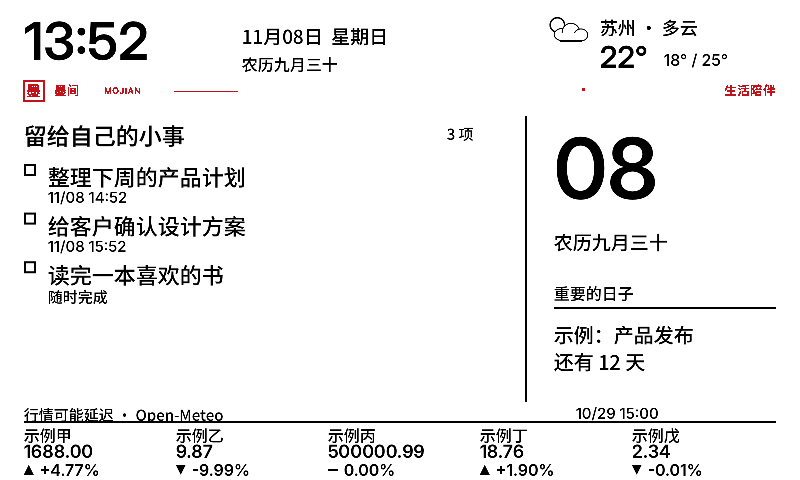
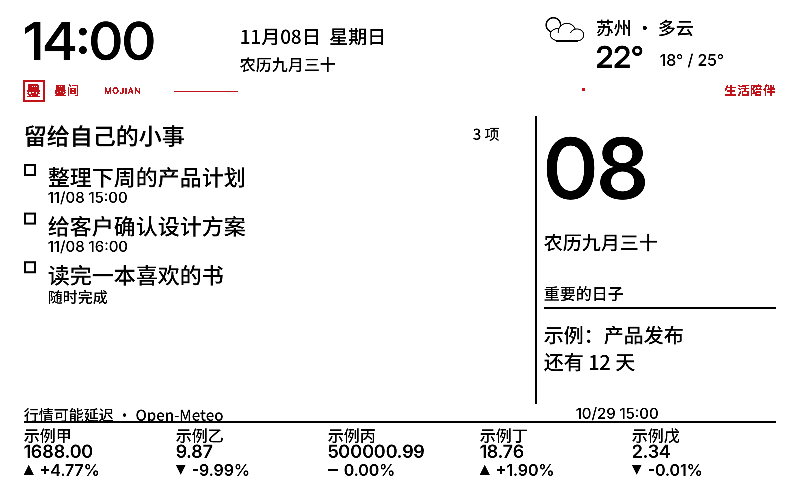
feat(ui): align right column and calendar to 8px grid
Phase 2 layout grid:
- left column 504, divider 536, right column 544/232
- header date 240 and weather 544
- calendar right grid 328..776 in 7x64 columns
- refresh regions and autonomy weather rect regenerated
- six-row calendar and card-bound assertions updated

Mac tests, Android assembleDebug and default firmware build pass.
Not written to the device; applying the layout needs one explicit full
refresh.

diff --git a/macos/Sources/ScreenRenderer.swift b/macos/Sources/ScreenRenderer.swift
@@ -97,9 +97,9 @@ private struct Painter {
     }
     func header(){
         text(dateText(c.now,"HH:mm"),24,10,52,200,64,true)
-        text(dateText(c.now,"MM月dd日  EEEE"),242,22,19,284)
-        text(lunarText(c.now),242,52,16,284)
-        weatherLine(548,14,228)
+        text(dateText(c.now,"MM月dd日  EEEE"),240,22,19,288)
+        text(lunarText(c.now),240,52,16,288)
+        weatherLine(544,14,232)
     }
     func stockArrow(_ percent:Double,_ x:CGFloat,_ y:CGFloat){
         NSColor.black.setFill()
@@ -199,18 +199,18 @@ private struct Painter {
         header();let layout=c.settings.layout
         switch layout {
         case .focus:
-            todos(24,118,500,284);rule(548,116,286,true)
-            informationCards(572,204)
+            todos(24,118,504,284);rule(536,116,288,true)
+            informationCards(544,232)
         case .agenda:
-            todos(24,118,500,284,"今日安排",true,5);rule(548,116,286,true)
-            informationCards(572,204)
+            todos(24,118,504,284,"今日安排",true,5);rule(536,116,288,true)
+            informationCards(544,232)
         case .minimal:
             text("今天，只做重要的事。",24,116,15,752)
             for (i,t) in active.prefix(3).enumerated(){let y:CGFloat=160+CGFloat(i)*76;outline(28,y+9,14,14);text((t.pinned == true ? "★ ":"")+t.title,62,y,28,710,40,true);text(dueText(t),62,y+42,15,710)}
             if active.isEmpty{text("今天的留白，也很珍贵。",24,194,34,752,90,true)}
         case .overview:
-            todos(24,118,478,284);rule(526,116,286,true)
-            informationCards(550,226)
+            todos(24,118,504,284);rule(536,116,288,true)
+            informationCards(544,232)
         case .pomodoro:
             todos(24,118,430,284,"专心做事",false,5);rule(478,116,286,true)
             text("专注时刻",510,120,18,266)
@@ -219,9 +219,9 @@ private struct Painter {
             text(c.focusEnd == nil ? "在 Mac 开始一段专注":"专注进行中",510,302,17,260)
             text(active.first?.title ?? "为自己留一段不被打扰的时间",510,348,18,260,54)
         case .living:
-            todos(24,118,478,284,"留给自己的小事",false,5);rule(526,116,286,true)
-            text(dateText(c.now,"dd"),554,118,84,210,110,true);text(lunarText(c.now),554,228,19,220)
-            note(554,281,222,122,"重要的日子",InformationLogic.nearest(c.settings.info.dates,at:c.now).map{InformationLogic.countdown($0,at:c.now)} ?? c.settings.note)
+            todos(24,118,504,284,"留给自己的小事",false,5);rule(536,116,288,true)
+            text(dateText(c.now,"dd"),544,118,84,232,110,true);text(lunarText(c.now),544,228,19,232)
+            note(544,281,232,122,"重要的日子",InformationLogic.nearest(c.settings.info.dates,at:c.now).map{InformationLogic.countdown($0,at:c.now)} ?? c.settings.note)
         case .custom:
             let width=(752*c.settings.customRatio/8).rounded(.down)*8
             todos(24,118,width-24,338,"我的待办",false,7);rule(24+width,116,340,true)
@@ -246,14 +246,14 @@ private struct Painter {
         weatherLine(24,405,280)
         rule(316,118,344,true)
         let illustrated=c.settings.info.artwork == true
-        if illustrated{landscape(346,118,430,115);text(["冬山藏雪","春山初醒","夏山听雨","秋山有信"][(WorkSchedule.calendar.component(.month,from:c.now)%12)/3]+" · 内置插画",346,240,16,430,24)}else{text("月历",346,116,16,430,40,true)}
+        if illustrated{landscape(328,118,448,115);text(["冬山藏雪","春山初醒","夏山听雨","秋山有信"][(WorkSchedule.calendar.component(.month,from:c.now)%12)/3]+" · 内置插画",328,240,16,448,24)}else{text("月历",328,116,16,448,40,true)}
         var cal=Calendar(identifier:.gregorian);cal.timeZone=TimeZone(identifier:"Asia/Shanghai")!;let components=cal.dateComponents([.year,.month],from:c.now);let first=cal.date(from:components)!;let offset=(cal.component(.weekday,from:first)+5)%7;let days=cal.range(of:.day,in:.month,for:first)!
-        for (i,day) in ["一","二","三","四","五","六","日"].enumerated(){text(day,346+CGFloat(i)*62,illustrated ? 264:163,16,58)}
-        for day in days {let position=offset+day-1;let x=346+CGFloat(position%7)*62;let y=(illustrated ? 290:202)+CGFloat(position/7)*(illustrated ? 22:35)
+        for (i,day) in ["一","二","三","四","五","六","日"].enumerated(){text(day,328+CGFloat(i)*64,illustrated ? 264:163,16,60)}
+        for day in days {let position=offset+day-1;let x=328+CGFloat(position%7)*64;let y=(illustrated ? 290:202)+CGFloat(position/7)*(illustrated ? 22:35)
             if day==cal.component(.day,from:c.now){outline(x-6,y-2,43,illustrated ? 22:31)}
             text("\(day)",x,y,20,50,23,day==cal.component(.day,from:c.now))
             if let date=cal.date(byAdding:.day,value:day-1,to:first),let marker=CalendarData.marker(date){text(marker,x+30,y+2,14,20,20)}
         }
-        rule(346,425,430);text(InformationLogic.nearest(c.settings.info.dates,at:c.now).map{InformationLogic.countdown($0,at:c.now).replacingOccurrences(of:"\n",with:" · ")} ?? CalendarData.nextTerm(c.now) ?? c.settings.note,346,441,17,430,34)
+        rule(328,425,448);text(InformationLogic.nearest(c.settings.info.dates,at:c.now).map{InformationLogic.countdown($0,at:c.now).replacingOccurrences(of:"\n",with:" · ")} ?? CalendarData.nextTerm(c.now) ?? c.settings.note,328,441,17,448,34)
     }
 }

diff --git a/macos/Sources/ReadabilityTest.swift b/macos/Sources/ReadabilityTest.swift
@@ -57,12 +57,12 @@ import AppKit
         let longNote=try! ScreenRenderer.blackFrame(ScreenContent(tasks:[],settings:notes,weather:weather,quotes:quotes,now:now))
         notes.note=""
         let blankNote=try! ScreenRenderer.blackFrame(ScreenContent(tasks:[],settings:notes,weather:weather,quotes:quotes,now:now))
-        precondition(ink(longNote,550,215,226,35)>20,"Third body line visible")
-        for y in 0..<480{for x in 0..<800 where !(x>=550 && x<776 && ((y>=161 && y<256)||(y>=307 && y<402))){let bit=UInt8(128>>(x%8));precondition(longNote[y*100+x/8]&bit==blankNote[y*100+x/8]&bit,"Paragraph stays inside body")}}
+        precondition(ink(longNote,544,215,232,35)>20,"Third body line visible")
+        for y in 0..<480{for x in 0..<800 where !(x>=544 && x<776 && ((y>=161 && y<256)||(y>=307 && y<402))){let bit=UInt8(128>>(x%8));precondition(longNote[y*100+x/8]&bit==blankNote[y*100+x/8]&bit,"Paragraph stays inside body")}}
         try! saveFrame(longNote,to:directory.appendingPathComponent("long-cards.png"))
         let sixRows=ScreenContent(tasks:[],settings:settings,weather:weather,quotes:[],now:ISO8601DateFormatter().date(from:"2026-11-30T09:30:00+08:00")!,afterHours:true)
         let calendarSix=try! ScreenRenderer.blackFrame(sixRows)
-        precondition(ink(calendarSix,346,400,430,23)>40 && ink(calendarSix,346,423,430,1)==0,"Six calendar rows clear footer")
+        precondition(ink(calendarSix,328,400,448,23)>40 && ink(calendarSix,328,423,448,1)==0,"Six calendar rows clear footer")
         try! saveFrame(calendarSix,to:directory.appendingPathComponent("calendar-six-rows.png"))
         print("PASS: all layouts, five stock names/prices/signed movements, vector arrow direction, narrow-name isolation, paragraph bounds, six-week calendar, red reserve; 1-bit threshold previews exported")
     }

diff --git a/android/app/src/main/java/com/desktodo/app/DeskRenderer.java b/android/app/src/main/java/com/desktodo/app/DeskRenderer.java
@@ -21,7 +21,7 @@ final class DeskRenderer {
  String agendaDate(JSONObject t){try{Instant d=Instant.parse(t.getString("due"));LocalDate day=d.atZone(ScreenData.ZONE).toLocalDate();LocalDate today=now.atZone(ScreenData.ZONE).toLocalDate();if(day.equals(today))return "";if(day.equals(today.plusDays(1)))return "明天";return day.getMonthValue()+"月"+day.getDayOfMonth()+"日";}catch(Exception e){return "";}}
  void tasks(String id)throws Exception{
   String kind=DeskModel.kind(id);if(kind.equals("calendar"))return;
-  float width=kind.equals("focus")||kind.equals("agenda")?500:kind.equals("pomodoro")?430:478,height=284;
+  float width=kind.equals("focus")||kind.equals("agenda")?504:kind.equals("pomodoro")?430:504,height=284;
   if(kind.equals("custom")){String[] pieces=id.split("\\.");width=(float)Math.floor(752*Integer.parseInt(pieces[3])/100.0/8)*8-24;height=338;}
   int save=c.save();c.clipRect(24,kind.equals("minimal")?150:118,kind.equals("minimal")?776:24+width,kind.equals("custom")?456:404);clear(24,kind.equals("minimal")?150:118,kind.equals("minimal")?752:width,kind.equals("minimal")?254:height);
   if(kind.equals("minimal")){for(int i=0;i<Math.min(3,tasks.length());i++){JSONObject t=tasks.getJSONObject(i);int y=160+i*76;check(28,y+9,14);text(t.getString("title"),62,y,28,710,true);text(DeskModel.due(t),62,y+42,15,710);}if(tasks.length()==0)text("今天的留白，也很珍贵。",24,194,34,752,true);c.restoreToCount(save);return;}
@@ -36,7 +36,7 @@ final class DeskRenderer {
  void weather(float x,float y,float width)throws Exception{if(weather==null)return;clear(x,y,width,66);JSONObject cur=weather.getJSONObject("current");text(weather.optString("city",cfg.optString("city"))+" · "+DeskApi.weatherText(cur.optInt("weather_code")),x,y,18,width);text(Math.round(cur.getDouble("temperature_2m"))+"°",x,y+25,30,width,true);}
  void stockArrow(double percent,float x,float y){p.setColor(Color.BLACK);p.setStyle(Paint.Style.FILL);if(percent==0){c.drawRect(x,y+4,x+10,y+6,p);return;}Path arrow=new Path();arrow.moveTo(x,y+(percent>0?10:0));arrow.lineTo(x+5,y+(percent>0?0:10));arrow.lineTo(x+10,y+(percent>0?10:0));arrow.close();c.drawPath(arrow,p);}
  void stocks()throws Exception{if(quotes.length()==0&&!cfg.optBoolean("stockConfigured"))return;clear(24,404,752,76);text("行情可能延迟 · Open-Meteo",24,404,15,600);text("手机同步",648,404,15,128);rule(24,422,752,false);if(quotes.length()==0){text("行情待更新 · 稍后自动刷新",24,441,18,752);return;}for(int i=0;i<5;i++){int x=24+i*152;if(i<quotes.length()){JSONObject q=quotes.getJSONObject(i);double percent=q.getDouble("percent");text(q.getString("name"),x,423,16,145);text(String.format(Locale.US,"%.2f",q.getDouble("price")),x,441,18,145,true);stockArrow(percent,x,465);text(percent==0?"0.00%":String.format(Locale.US,"%+.2f%%",percent),x+16,460,16,129,true);}else{text("未配置",x,423,16,145);text("—",x,444,18,145);}}}
- void infoPatch(String id)throws Exception{String k=DeskModel.kind(id);if(k.equals("calendar")){if(id.endsWith(".phone"))weather(548,14,228);else weather(24,405,280);return;}clock();weather(548,14,228);if(!k.equals("custom"))stocks();}
+ void infoPatch(String id)throws Exception{String k=DeskModel.kind(id);if(k.equals("calendar")){if(id.endsWith(".phone"))weather(544,14,232);else weather(24,405,280);return;}clock();weather(544,14,232);if(!k.equals("custom"))stocks();}
  void lines(String body,float x,float y,float size,float width,int limit){
   if(width<1||limit<1)return;
   TextPaint paint=new TextPaint(Paint.ANTI_ALIAS_FLAG);paint.setColor(Color.BLACK);paint.setTypeface(ScreenFonts.face(body));paint.setTextSize(size);paint.setSubpixelText(false);
@@ -51,14 +51,14 @@ final class DeskRenderer {
  void cards(float x,float width)throws Exception{for(int slot=0;slot<2;slot++){float y=slot==0?120:266;int saved=c.save();c.clipRect(x,y,x+width,y+136);clear(x,y,width,136);String key=cfg.optString(slot==0?"card1":"card2",slot==0?"week":"outdoor");text(ScreenData.label(key),x,y,16,width);rule(x,y+27,width,false);int count=cfg.optInt("_weekCount",0),goal=Math.max(1,cfg.optInt("weeklyGoal",20));switch(key){case "plant":plant(x+width-82,y+37,ScreenData.plantStage(count,goal));text(count+" / "+goal,x,y+45,25,width-86,true);text(cfg.optBoolean("sharedStats")?"共享本周":"本机本周",x,y+83,16,width-86);break;case "week":text("已完成 "+count+" 项",x,y+42,23,width,true);text((cfg.optBoolean("sharedStats")?"共享本周":"本机本周")+" · 目标 "+goal+" 项",x,y+78,16,width);p.setColor(Color.BLACK);p.setStyle(Paint.Style.STROKE);p.setStrokeWidth(2);c.drawRect(x,y+109,x+width,y+119,p);p.setStyle(Paint.Style.FILL);c.drawRect(x,y+109,x+width*Math.min(1f,(float)count/goal),y+119,p);break;case "countdown":lines(ScreenData.countdown(cfg,now),x,y+41,20,width,3);break;case "outdoor":lines(ScreenData.outdoor(weather,now),x,y+41,17,width,3);break;case "plugin":lines(CommunityPanel.pluginText(cfg.optJSONObject("plugin")==null?new JSONObject():cfg.optJSONObject("plugin"),now.atZone(ScreenData.ZONE).toLocalDate()),x,y+41,18,width,3);break;case "nextEvent":lines(DeskExtras.eventText(cfg,now),x,y+41,18,width,3);break;case "commute":lines(DeskExtras.commuteText(cfg,now),x,y+41,18,width,3);break;case "habits":lines(DeskExtras.habitText(cfg,now),x,y+41,18,width,3);break;case "inspiration":lines(new String[]{"今天，先做好一件事。","给重要的事留出时间。","慢一点，也在往前。","专注当下的一小步。","让桌面和心情都留白。","完成比完美更有力量。","休息也是今天的安排。"}[now.atZone(ScreenData.ZONE).getDayOfYear()%7],x,y+41,20,width,3);break;case "status":text(cfg.optString("deskStatus","专注中"),x,y+42,27,width,true);text(cfg.optString("statusNote","请稍后联系"),x,y+87,16,width);break;default:lines(cfg.optString("note"),x,y+41,20,width,3);}c.restoreToCount(saved);}}
  void plant(float x,float y,int stage){p.setColor(Color.BLACK);p.setStyle(Paint.Style.STROKE);p.setStrokeWidth(2);Path pot=new Path();pot.moveTo(x+14,y+61);pot.lineTo(x+59,y+61);pot.lineTo(x+53,y+84);pot.lineTo(x+20,y+84);pot.close();c.drawPath(pot,p);if(stage==0){c.drawOval(x+31,y+52,x+41,y+58,p);}else{c.drawLine(x+36,y+61,x+36,y+42-stage*6,p);for(int i=0;i<stage;i++){float at=y+47-i*8;Path leaf=new Path();leaf.moveTo(x+36,at);boolean left=i%2==0;leaf.quadTo(x+(left?9:63),at-23,x+(left?13:60),at-7);leaf.quadTo(x+(left?20:53),at+1,x+36,at);c.drawPath(leaf,p);}}p.setStyle(Paint.Style.FILL);p.setStrokeWidth(1);}
  void focusPanel(){int saved=c.save();c.clipRect(510,116,776,340);clear(510,116,266,224);text("专注时刻",510,120,18,266);long remaining=ScreenData.focusRemaining(cfg,now.toEpochMilli());long minutes=(remaining+59999)/60000;if(cfg.optLong("focusEnd",0)==0&&cfg.optLong("focusPaused",0)==0)minutes=cfg.optInt("focusMinutes",25);text(String.valueOf(minutes),510,171,96,230,true);text("分钟",680,242,18,90);text(ScreenData.focusState(cfg,now.toEpochMilli()),510,302,17,260);c.restoreToCount(saved);}
- void cardsPatch(String id)throws Exception{clear(242,0,284,80);text(DateTimeFormatter.ofPattern("MM月dd日 EEEE",Locale.CHINA).withZone(ScreenData.ZONE).format(now),242,22,19,284);text(ScreenData.lunar(now),242,52,16,284);switch(DeskModel.kind(id)){case "focus":case "agenda":cards(572,204);break;case "overview":cards(550,226);break;case "pomodoro":focusPanel();break;case "living":clear(554,118,222,284);text(DateTimeFormatter.ofPattern("dd").withZone(ScreenData.ZONE).format(now),554,118,84,210,true);text(ScreenData.lunar(now),554,228,16,222);lines(ScreenData.countdown(cfg,now),554,293,19,222,3);break;case "calendar":calendarBody();break;}}
+ void cardsPatch(String id)throws Exception{clear(240,0,288,80);text(DateTimeFormatter.ofPattern("MM月dd日 EEEE",Locale.CHINA).withZone(ScreenData.ZONE).format(now),240,22,19,288);text(ScreenData.lunar(now),240,52,16,288);switch(DeskModel.kind(id)){case "focus":case "agenda":cards(544,232);break;case "overview":cards(544,232);break;case "pomodoro":focusPanel();break;case "living":clear(544,118,232,284);text(DateTimeFormatter.ofPattern("dd").withZone(ScreenData.ZONE).format(now),544,118,84,232,true);text(ScreenData.lunar(now),544,228,16,232);lines(ScreenData.countdown(cfg,now),544,293,19,232,3);break;case "calendar":calendarBody();break;}}
  void landscape(float x,float y,float width,float height){int saved=c.save();c.clipRect(x,y,x+width,y+height);p.setColor(Color.BLACK);p.setStyle(Paint.Style.STROKE);p.setStrokeWidth(1.3f);c.drawCircle(x+width*.79f,y+height*.24f,14,p);for(int layer=0;layer<3;layer++){Path ridge=new Path();ridge.moveTo(x,y+height);for(int i=0;i<=8;i++){float xx=x+i*width/8,yy=y+height*(.42f+layer*.18f)+(float)Math.sin(i*1.7+layer+now.atZone(ScreenData.ZONE).getMonthValue()*.3)*height*.17f;ridge.lineTo(xx,yy);}ridge.lineTo(x+width,y+height);c.drawPath(ridge,p);}p.setStyle(Paint.Style.FILL);c.restoreToCount(saved);}
- void calendarBody(){clear(24,116,752,364);LocalDate date=now.atZone(ScreenData.ZONE).toLocalDate();text(date.format(DateTimeFormatter.ofPattern("yyyy年 M月")),24,120,21,278);text(date.format(DateTimeFormatter.ofPattern("dd")),18,159,110,284,true);text(ScreenData.lunar(now),24,296,21,278);text(date.format(DateTimeFormatter.ofPattern("EEEE",Locale.CHINA)),24,333,20,278);text(ScreenData.term(now),24,374,15,278);lines("把时间，还给生活。",24,421,18,278,2);rule(316,118,344,true);landscape(346,118,430,121);text(new String[]{"冬山藏雪","春山初醒","夏山听雨","秋山有信"}[(date.getMonthValue()%12)/3]+" · 内置插画",346,240,16,430);String[] labels={"一","二","三","四","五","六","日"};for(int i=0;i<7;i++)text(labels[i],346+i*62,264,16,58);int offset=date.withDayOfMonth(1).getDayOfWeek().getValue()-1;for(int day=1;day<=date.lengthOfMonth();day++){int at=offset+day-1;float x=346+at%7*62,y=290+at/7*22;if(day==date.getDayOfMonth()){p.setStyle(Paint.Style.STROKE);p.setStrokeWidth(2);p.setColor(Color.BLACK);c.drawRect(x-4,y-1,x+34,y+21,p);p.setStyle(Paint.Style.FILL);}text(String.valueOf(day),x,y,18,50,day==date.getDayOfMonth());}rule(346,427,430,false);lines(ScreenData.countdown(cfg,now).replace("\n"," · "),346,440,17,430,1);}
- void full(String id)throws Exception{String kind=DeskModel.kind(id);Bitmap old=image.copy(Bitmap.Config.ARGB_8888,false);clear(0,0,800,480);clock();text(DateTimeFormatter.ofPattern("MM月dd日 EEEE",Locale.CHINA).withZone(ZoneId.of("Asia/Shanghai")).format(now),242,22,19,284);text("手机直连 · 墨间",242,52,16,284);if(weather!=null)weather(548,14,228);else if(hadBase)c.drawBitmap(old,new Rect(548,0,776,80),new Rect(548,0,776,80),null);else text(cfg.optString("city","苏州")+" · 天气待更新",548,18,17,228);
+ void calendarBody(){clear(24,116,752,364);LocalDate date=now.atZone(ScreenData.ZONE).toLocalDate();text(date.format(DateTimeFormatter.ofPattern("yyyy年 M月")),24,120,21,278);text(date.format(DateTimeFormatter.ofPattern("dd")),18,159,110,284,true);text(ScreenData.lunar(now),24,296,21,278);text(date.format(DateTimeFormatter.ofPattern("EEEE",Locale.CHINA)),24,333,20,278);text(ScreenData.term(now),24,374,15,278);lines("把时间，还给生活。",24,421,18,278,2);rule(316,118,344,true);landscape(328,118,448,121);text(new String[]{"冬山藏雪","春山初醒","夏山听雨","秋山有信"}[(date.getMonthValue()%12)/3]+" · 内置插画",328,240,16,448);String[] labels={"一","二","三","四","五","六","日"};for(int i=0;i<7;i++)text(labels[i],328+i*64,264,16,60);int offset=date.withDayOfMonth(1).getDayOfWeek().getValue()-1;for(int day=1;day<=date.lengthOfMonth();day++){int at=offset+day-1;float x=328+at%7*64,y=290+at/7*22;if(day==date.getDayOfMonth()){p.setStyle(Paint.Style.STROKE);p.setStrokeWidth(2);p.setColor(Color.BLACK);c.drawRect(x-4,y-1,x+34,y+21,p);p.setStyle(Paint.Style.FILL);}text(String.valueOf(day),x,y,18,50,day==date.getDayOfMonth());}rule(328,427,448,false);lines(ScreenData.countdown(cfg,now).replace("\n"," · "),328,440,17,448,1);}
+ void full(String id)throws Exception{String kind=DeskModel.kind(id);Bitmap old=image.copy(Bitmap.Config.ARGB_8888,false);clear(0,0,800,480);clock();text(DateTimeFormatter.ofPattern("MM月dd日 EEEE",Locale.CHINA).withZone(ZoneId.of("Asia/Shanghai")).format(now),240,22,19,288);text("手机直连 · 墨间",240,52,16,288);if(weather!=null)weather(544,14,232);else if(hadBase)c.drawBitmap(old,new Rect(544,0,776,80),new Rect(544,0,776,80),null);else text(cfg.optString("city","苏州")+" · 天气待更新",544,18,17,232);
   if(kind.equals("minimal"))text("今天，只做重要的事。",24,116,15,752);
-  else if(kind.equals("focus")||kind.equals("agenda")){rule(548,116,286,true);cards(572,204);}
-  else if(kind.equals("overview")){rule(526,116,286,true);cards(550,226);}
-  else if(kind.equals("living")){rule(526,116,286,true);text(DateTimeFormatter.ofPattern("dd").format(LocalDate.now()),554,118,84,210,true);text(cfg.optString("note"),554,281,19,222);}
+  else if(kind.equals("focus")||kind.equals("agenda")){rule(536,116,288,true);cards(544,232);}
+  else if(kind.equals("overview")){rule(536,116,288,true);cards(544,232);}
+  else if(kind.equals("living")){rule(536,116,288,true);text(DateTimeFormatter.ofPattern("dd").format(LocalDate.now()),544,118,84,232,true);text(cfg.optString("note"),544,281,19,232);}
   else if(kind.equals("pomodoro")){rule(478,116,286,true);focusPanel();}
   else if(kind.equals("custom")){float w=(float)Math.floor(752*cfg.optInt("ratio",67)/100.0/8)*8;rule(24+w,116,340,true);float x=48+w,remaining=728-w;text("出门天气",x,118,16,remaining);if(weather!=null)weather(x,148,remaining);text("自选行情",x,232,16,remaining);for(int i=0;i<quotes.length();i++)compactStock(quotes.getJSONObject(i),x,260+i*22,remaining);text(cfg.optString("note"),x,374,16,remaining);}
   if(cfg.optInt("cardsVersion",0)==1)cardsPatch(id);else if(kind.equals("calendar"))calendarBody();tasks(id);if(!kind.equals("custom")&&!kind.equals("calendar")){rule(24,422,752,false);if(quotes.length()>0||cfg.optBoolean("stockConfigured"))stocks();else c.drawBitmap(old,new Rect(24,426,776,480),new Rect(24,426,776,480),null);}clear(0,80,800,24);old.recycle();

diff --git a/android/app/src/debug/java/com/desktodo/app/ReadabilityChecks.java b/android/app/src/debug/java/com/desktodo/app/ReadabilityChecks.java
@@ -31,8 +31,8 @@ public final class ReadabilityChecks extends Instrumentation {
   // Unicode truncation must not split a surrogate pair or spill out of a card.
   JSONObject cfg=DeskModel.defaults();DeskRenderer unicode=new DeskRenderer(null,new JSONArray(),cfg,null,new JSONArray(),now);unicode.text("质量检查😀长标题",24,140,22,60);byte[] packed=unicode.frame();for(int y=140;y<178;y++)check(ink(packed,88,y,80,1)==0,"truncation stays in width");
   JSONObject narrow=DeskModel.defaults().put("layout","custom").put("ratio",75).put("cardsVersion",1);JSONArray named=DeskModel.copy(quotes);named.getJSONObject(0).put("name","中远海运控股超长名称用于测试");DeskRenderer nameRenderer=new DeskRenderer(null,tasks,narrow,weather,named,now);nameRenderer.full(DeskModel.layoutId(narrow));byte[] namedFrame=nameRenderer.frame();named.getJSONObject(0).put("name","");DeskRenderer noNameRenderer=new DeskRenderer(null,tasks,narrow,weather,named,now);noNameRenderer.full(DeskModel.layoutId(narrow));byte[] noNameFrame=noNameRenderer.frame();for(int y=260;y<282;y++)for(int x=688;x<776;x++){int mask=128>>(x%8);check((namedFrame[y*100+x/8]&mask)==(noNameFrame[y*100+x/8]&mask),"long name cannot obscure percentage");}
-  JSONObject notes=DeskModel.defaults().put("layout","overview").put("cardsVersion",1).put("card1","note").put("card2","note").put("note","请确认客户的交付安排和文档，检查所有信息。请确认客户的交付安排和文档，检查所有信息。请确认客户的交付安排和文档，检查所有信息。");DeskRenderer longCards=new DeskRenderer(null,new JSONArray(),notes,weather,quotes,now);longCards.full(DeskModel.layoutId(notes));byte[] longFrame=longCards.frame();check(ink(longFrame,550,215,226,35)>20,"third body line visible");notes.put("note","");DeskRenderer blankCards=new DeskRenderer(null,new JSONArray(),notes,weather,quotes,now);blankCards.full(DeskModel.layoutId(notes));byte[] blankFrame=blankCards.frame();for(int y=0;y<480;y++)for(int x=0;x<800;x++)if(!(x>=550&&x<776&&((y>=161&&y<256)||(y>=307&&y<402)))){int mask=128>>(x%8);check((longFrame[y*100+x/8]&mask)==(blankFrame[y*100+x/8]&mask),"paragraph stays within card");}try(FileOutputStream out=new FileOutputStream(new File(getTargetContext().getFilesDir(),"readability-long-cards.png"))){DeskRenderer.decode(longFrame).compress(Bitmap.CompressFormat.PNG,100,out);}
-  JSONObject cal=DeskModel.defaults().put("layout","calendar").put("cardsVersion",1);DeskRenderer month=new DeskRenderer(null,new JSONArray(),cal,weather,new JSONArray(),Instant.parse("2026-11-30T01:30:00Z"));month.full(DeskModel.layoutId(cal));byte[] monthFrame=month.frame();check(ink(monthFrame,346,400,430,23)>40&&ink(monthFrame,346,423,430,1)==0,"six weeks clear footer");try(FileOutputStream out=new FileOutputStream(new File(getTargetContext().getFilesDir(),"readability-calendar-six-rows.png"))){DeskRenderer.decode(monthFrame).compress(Bitmap.CompressFormat.PNG,100,out);}
+  JSONObject notes=DeskModel.defaults().put("layout","overview").put("cardsVersion",1).put("card1","note").put("card2","note").put("note","请确认客户的交付安排和文档，检查所有信息。请确认客户的交付安排和文档，检查所有信息。请确认客户的交付安排和文档，检查所有信息。");DeskRenderer longCards=new DeskRenderer(null,new JSONArray(),notes,weather,quotes,now);longCards.full(DeskModel.layoutId(notes));byte[] longFrame=longCards.frame();check(ink(longFrame,544,215,232,35)>20,"third body line visible");notes.put("note","");DeskRenderer blankCards=new DeskRenderer(null,new JSONArray(),notes,weather,quotes,now);blankCards.full(DeskModel.layoutId(notes));byte[] blankFrame=blankCards.frame();for(int y=0;y<480;y++)for(int x=0;x<800;x++)if(!(x>=544&&x<776&&((y>=161&&y<256)||(y>=307&&y<402)))){int mask=128>>(x%8);check((longFrame[y*100+x/8]&mask)==(blankFrame[y*100+x/8]&mask),"paragraph stays within card");}try(FileOutputStream out=new FileOutputStream(new File(getTargetContext().getFilesDir(),"readability-long-cards.png"))){DeskRenderer.decode(longFrame).compress(Bitmap.CompressFormat.PNG,100,out);}
+  JSONObject cal=DeskModel.defaults().put("layout","calendar").put("cardsVersion",1);DeskRenderer month=new DeskRenderer(null,new JSONArray(),cal,weather,new JSONArray(),Instant.parse("2026-11-30T01:30:00Z"));month.full(DeskModel.layoutId(cal));byte[] monthFrame=month.frame();check(ink(monthFrame,328,400,448,23)>40&&ink(monthFrame,328,423,448,1)==0,"six weeks clear footer");try(FileOutputStream out=new FileOutputStream(new File(getTargetContext().getFilesDir(),"readability-calendar-six-rows.png"))){DeskRenderer.decode(monthFrame).compress(Bitmap.CompressFormat.PNG,100,out);}
   result.putString("stream","PASS: "+assertions+" readability assertions: seven layouts, five stocks, vector signs, red reserve, Unicode truncation, narrow percentages, wrapping bounds, six-week calendar; fictional 1-bit previews saved\n");finish(Activity.RESULT_OK,result);
  }catch(Throwable e){result.putString("stream","FAIL: "+e+"\n");finish(Activity.RESULT_CANCELED,result);}}
 }

diff --git a/firmware/src/refresh_regions.h b/firmware/src/refresh_regions.h
@@ -4,19 +4,19 @@ struct ScreenRegion {int x,y,w,h;};
 static const ScreenRegion REFRESH_REGIONS[]={
  {24,0,208,64},
  {24,64,208,40},
- {264,8,240,88},
- {528,8,248,88},
- {24,112,480,64},
- {536,112,240,40},
- {24,184,480,44},
- {24,228,480,44},
- {24,272,480,44},
- {24,316,480,44},
- {24,360,480,44},
- {536,160,240,56},
- {536,218,240,56},
- {536,276,240,56},
- {536,334,240,56},
+ {240,8,288,88},
+ {544,8,232,88},
+ {24,112,504,64},
+ {24,184,504,44},
+ {24,228,504,44},
+ {24,272,504,44},
+ {24,316,504,44},
+ {24,360,504,44},
+ {544,112,232,40},
+ {544,160,232,56},
+ {544,218,232,56},
+ {544,276,232,56},
+ {544,334,232,56},
  {24,432,160,24},
  {192,432,160,24},
  {360,432,160,24},

diff --git a/firmware/src/autonomy_geometry.h b/firmware/src/autonomy_geometry.h
@@ -2,5 +2,5 @@
 #include <stdint.h>
 struct AutoRect {int x,y,w,h;};
 inline AutoRect autoClockRect(bool calendar,bool phone){return calendar&&!phone?AutoRect{650,24,126,50}:AutoRect{24,0,208,80};}
-inline AutoRect autoWeatherRect(bool calendar,bool phone){return calendar&&!phone?AutoRect{24,405,280,66}:AutoRect{548,14,228,66};}
+inline AutoRect autoWeatherRect(bool calendar,bool phone){return calendar&&!phone?AutoRect{24,405,280,66}:AutoRect{544,14,232,66};}
 template<class Plane> inline void autoPixel(Plane&& bytes,int x,int y,bool white){if(x<0||x>=800||y<0||y>=480||(y>=80&&y<=103))return;uint8_t bit=128>>(x%8);if(white)bytes[y*100+x/8]|=bit;else bytes[y*100+x/8]&=~bit;}

diff --git a/README.md b/README.md
@@ -28,7 +28,7 @@ Mac 与 Android 均可独立通过局域网直连 ESP32，不需要同时运行 
 
 ## 本轮更新
 
-- **屏幕可读性（Phase 1）**：行情辅助字 15px，合并为“行情可能延迟 · Open-Meteo”，空行情单行提示；Mac 万年历右侧重复月份改为“月历”，日期 20px、`休` 14px；今日安排不再重复显示时间，跨天显示“明天/M月d日”，逾期显示“已逾期”。预览改用五支虚构行情；Mac/Android 已同步构建，应用布局一次后生效。
+- **屏幕可读性（Phase 1/2）**：行情辅助字 15px、空行情单行提示；今日安排不再重复时间；Mac 万年历改“月历”、日期 20px；完整 8px 网格（左 504 / 分隔 536 / 右 544·232）、日历 7×64，刷新区域同步。预览使用五支虚构行情；Mac/Android 已同步构建，应用布局一次后生效。
 
 - **全刷温度对照**：新增默认关闭的 `esp32-l-gx-full-temp-ab`，仅在全刷刷新前写 GxEPD2 同型号的 `0xE0/0x41` 温度块，用于隔离"两组共用全刷"这一残影因素；`0x50` 涉及红色极性，暂不单独改。详见[全刷寄存器对照](docs/DISPLAY_FULL_REFRESH_AB.md)。
 

diff --git a/docs/UI_OPTIMIZATION_2026-11-08.md b/docs/UI_OPTIMIZATION_2026-11-08.md
@@ -144,3 +144,10 @@ Phase 1 不触碰红色静态资源、不改布局 ID、不改刷新波形；应
 - 今日安排第二行不再重复时间：今天只保留左侧时间，跨天显示“明天/M月d日”，逾期显示“已逾期”；Mac/Android 同步。
 - Mac 已重建并跑完 `sh tools/test.sh`；`docs/images/*.png` 已用虚构数据重新生成；Android `assembleDebug` 通过。
 - 未写屏。应用新排版需要显式应用一次布局（全刷）。
+
+### Phase 2 实施记录（2026-11-08）
+
+- 左栏 504、分隔 536、右栏 544/232；header 日期 240、天气 544；右栏卡片统一 544/232。
+- 万年历右侧 328…776 的 7×64 网格；日期 20px；今天框、底部分隔线与事件行同步。
+- `config/refresh_regions.json` 重新生成固件区域；`autonomy_geometry.h` 天气矩形改为 544/232；六行日历和卡片边界测试更新。
+- Mac 测试、Android 构建、默认固件编译通过；未写屏。pomodoro/custom 的特殊几何留待下一轮。

diff --git a/CHANGELOG.md b/CHANGELOG.md
@@ -2,6 +2,12 @@
 
 版本按各客户端独立编号。当前为开发验证阶段。
 
+## UI Phase 2 8px 网格（2026-11-08）
+
+- 左栏 504（24…528）、分隔 536、右栏 544…776（232）；header 日期 240、天气 544；右栏卡片统一 544/232。
+- 万年历右侧改为 328…776 的 7×64 网格；日期 20px，今天框、底部分隔线与事件行同步移动。
+- 刷新区域重新生成；自主天气矩形改为 544/232；六行日历与卡片边界回归更新。Mac/Android 构建与默认固件编译通过。未写屏，应用布局一次后生效。
+
 ## UI Phase 1（2026-11-08）
 
 - 行情区辅助字 14→15px，合并为“行情可能延迟 · Open-Meteo”；空行情改为单行“行情待更新 · 稍后自动刷新”；保留 16/18/16px 行情三行与五列。Mac/Android 同步。
